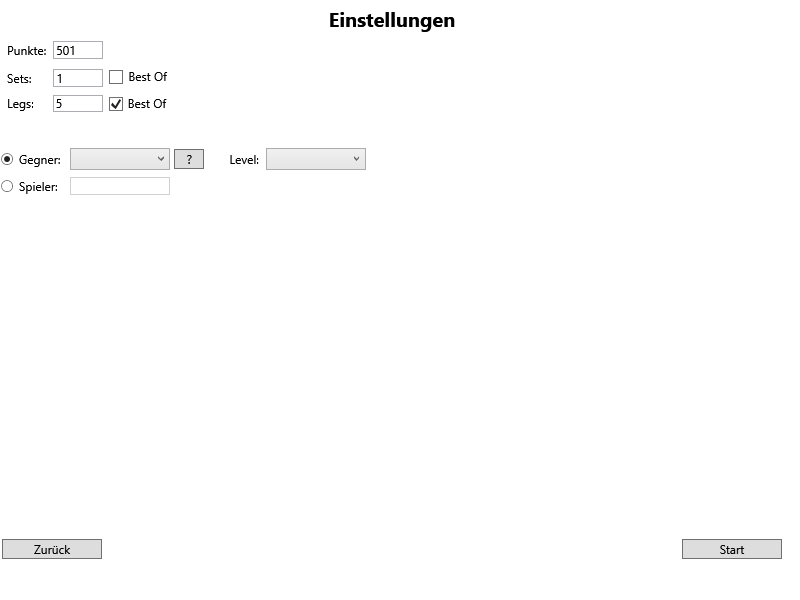
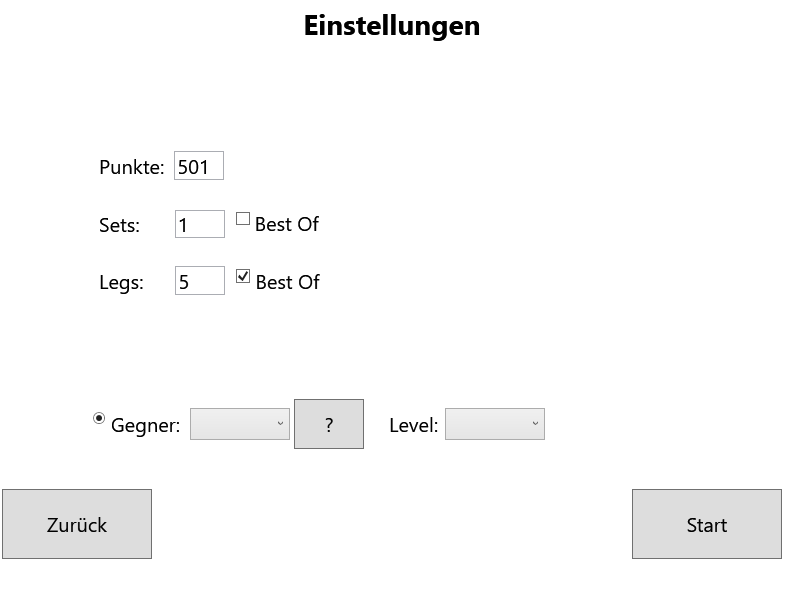
resized controls and fonts of gui

diff --git a/DartTraining/DartTraining/Match/MatchConfigUserControl.xaml b/DartTraining/DartTraining/Match/MatchConfigUserControl.xaml
@@ -5,37 +5,37 @@
              xmlns:d="http://schemas.microsoft.com/expression/blend/2008"
              xmlns:local="clr-namespace:DartTraining.Match"
              mc:Ignorable="d"
-             d:DesignHeight = "300" d:DesignWidth="400">
+             d:DesignHeight="768" d:DesignWidth="1024">
 	<Grid>
-		<StackPanel Margin="0,0,0,30">
-			<Label Name="lTitle" HorizontalAlignment="Center" VerticalAlignment="Top" Content="Einstellungen" FontSize="20" FontWeight="Bold" />
-			<StackPanel Orientation="Horizontal">
-				<Label Name="lPunkte" HorizontalAlignment="Left" VerticalAlignment="Center" Margin="2,0,0,0" Content="Punkte:" />
-				<TextBox Name="tbScores" HorizontalAlignment="Left" VerticalAlignment="Center" Margin="2,0,0,0" Width="50" Text="{Binding Path=Scores}" />
+		<StackPanel Margin="0,0,0,100" MaxWidth="600">
+			<Label Name="lTitle" HorizontalAlignment="Center" VerticalAlignment="Top" Content="Einstellungen" FontSize="28" FontWeight="Bold" />
+			<StackPanel Orientation="Horizontal" Margin="0,100,0,0">
+				<Label Name="lPunkte" HorizontalAlignment="Left" VerticalAlignment="Center" Margin="2,0,0,0" Content="Punkte:" FontSize="20" />
+				<TextBox Name="tbScores" HorizontalAlignment="Left" VerticalAlignment="Center" Margin="5,0,0,0" Width="50" Text="{Binding Path=Scores}" FontSize="20" />
 			</StackPanel>
-			<StackPanel Orientation="Horizontal">
-				<Label Name="lSets" HorizontalAlignment="Left" VerticalAlignment="Center" Margin="2,2,0,0" Content="Sets:" />
-				<TextBox Name="tbSets" HorizontalAlignment="Left" VerticalAlignment="Center" Margin="17,2,0,0" Width="50" Text="{Binding Path=Sets}" />
-				<CheckBox IsChecked="{Binding Path=IsSetBestOf}" Content="Best Of" VerticalAlignment="Center" Margin="5,1,0,0"></CheckBox>
+			<StackPanel Orientation="Horizontal" Margin="0,20,0,0">
+				<Label Name="lSets" HorizontalAlignment="Left" VerticalAlignment="Center" Margin="2,2,0,0" Content="Sets:" FontSize="20" />
+				<TextBox Name="tbSets" HorizontalAlignment="Left" VerticalAlignment="Center" Margin="30,2,0,0" Width="50" Text="{Binding Path=Sets}" FontSize="20" />
+				<CheckBox IsChecked="{Binding Path=IsSetBestOf}" Content="Best Of" VerticalAlignment="Center" Margin="10,1,0,0" FontSize="20"></CheckBox>
 			</StackPanel>
-			<StackPanel Orientation="Horizontal">
-				<Label Name="lLegs" HorizontalAlignment="Left" VerticalAlignment="Center" Margin="2,0,0,0" Content="Legs:" />
-				<TextBox Name="tbLegs" HorizontalAlignment="Left" VerticalAlignment="Center" Margin="14,0,0,0" Width="50" Text="{Binding Path=Legs}" />
-				<CheckBox IsChecked="{Binding Path=IsLegBestOf}" Content="Best Of" VerticalAlignment="Center" Margin="5,1,0,0"></CheckBox>
+			<StackPanel Orientation="Horizontal" Margin="0,20,0,0">
+				<Label Name="lLegs" HorizontalAlignment="Left" VerticalAlignment="Center" Margin="2,0,0,0" Content="Legs:" FontSize="20" />
+				<TextBox Name="tbLegs" HorizontalAlignment="Left" VerticalAlignment="Center" Margin="27,0,0,0" Width="50" Text="{Binding Path=Legs}" FontSize="20" />
+				<CheckBox IsChecked="{Binding Path=IsLegBestOf}" Content="Best Of" VerticalAlignment="Center" Margin="10,1,0,0" FontSize="20"></CheckBox>
 			</StackPanel>
-			<StackPanel Orientation="Horizontal" Margin="0,30,0,0">
-				<RadioButton VerticalAlignment="Center" GroupName="Opponent" Content="Gegner:" IsChecked="{Binding Path=IsCPU}"></RadioButton>
-				<ComboBox Name="cbOpponent" HorizontalAlignment="Left" VerticalAlignment="Top" Margin="10,2,0,2" Width="100" ItemsSource="{Binding Path=Opponents}" SelectedItem="{Binding Path=SelectedOpponent}" IsEnabled="{Binding Path=IsCPU}"  />
-				<Button Name="btnRandom" HorizontalAlignment="Left" VerticalAlignment="Center" Margin="4,0,0,0" Width="30" Command="{Binding Path=RandomCommand}" Content="?" ToolTip="Zufälliger Gegner"/>
-				<Label Name="lStaerke" HorizontalAlignment="Left" VerticalAlignment="Center" Margin="20,0,0,0" Content="Level:" IsEnabled="{Binding Path=IsCPU}" />
-				<ComboBox Name="cbLevel" HorizontalAlignment="Left" VerticalAlignment="Center" Margin="2,0,0,0" Width="100" ItemsSource="{Binding Path=Levels}" SelectedItem="{Binding Path=SelectedLevel}" IsEnabled="{Binding Path=IsCPU}"  />
+			<StackPanel Orientation="Horizontal" Margin="0,100,0,0">
+				<RadioButton VerticalAlignment="Center" GroupName="Opponent" Content="Gegner:" IsChecked="{Binding Path=IsCPU}" FontSize="20" HorizontalAlignment="Center"></RadioButton>
+				<ComboBox Name="cbOpponent" VerticalAlignment="Center" Margin="10,2,0,2" Width="100" HorizontalContentAlignment="Center" ItemsSource="{Binding Path=Opponents}" SelectedItem="{Binding Path=SelectedOpponent}" IsEnabled="{Binding Path=IsCPU}" FontSize="20"  />
+				<Button Name="btnRandom" HorizontalAlignment="Center" VerticalAlignment="Center" Margin="4,0,0,0" Height="50" Width="70" Command="{Binding Path=RandomCommand}" Content="?" ToolTip="Zufälliger Gegner" FontSize="20"/>
+				<Label Name="lStaerke" HorizontalAlignment="Center" VerticalAlignment="Center" Margin="20,0,0,0" Content="Level:" IsEnabled="{Binding Path=IsCPU}" FontSize="20" />
+				<ComboBox Name="cbLevel" HorizontalAlignment="Center" VerticalAlignment="Center" Margin="2,0,0,0" Width="100" ItemsSource="{Binding Path=Levels}" SelectedItem="{Binding Path=SelectedLevel}" IsEnabled="{Binding Path=IsCPU}" FontSize="20" />
 			</StackPanel>
-			<StackPanel Orientation="Horizontal" Margin="0,5,0,0">
-				<RadioButton GroupName="Opponent" IsChecked="{Binding Path=IsPlayer}" VerticalAlignment="Center" Content="Spieler:"></RadioButton>
-				<TextBox Name="tbPlayer" HorizontalAlignment="Left" VerticalAlignment="Center" Margin="12,0,0,0" Width="100" Text="{Binding Path=Player}" IsEnabled="{Binding Path=IsPlayer}" />
+			<StackPanel Orientation="Horizontal" Margin="0,20,0,0">
+				<RadioButton GroupName="Opponent" IsChecked="{Binding Path=IsPlayer}" VerticalAlignment="Center" Content="Spieler:" FontSize="20"></RadioButton>
+				<TextBox Name="tbPlayer" HorizontalAlignment="Left" VerticalAlignment="Center" Margin="12,0,0,0" Width="100" Text="{Binding Path=Player}" IsEnabled="{Binding Path=IsPlayer}" FontSize="20" />
 			</StackPanel>
 		</StackPanel>
-		<Button Name="btnBack" HorizontalAlignment="Left" VerticalAlignment="Bottom" Margin="2,0,0,2" Width="100" Command="{Binding Path=BackCommand}" Content="Zurück" />
-		<Button Name="btnStart" HorizontalAlignment="Right" VerticalAlignment="Bottom" Margin="0,0,2,2" Width="100" Command="{Binding Path=StartCommand}" Content="Start" />
+		<Button Name="btnBack" HorizontalAlignment="Left" VerticalAlignment="Bottom" Margin="2,0,0,2" Height="70" Width="150" Command="{Binding Path=BackCommand}" Content="Zurück" FontSize="20"/>
+		<Button Name="btnStart" HorizontalAlignment="Right" VerticalAlignment="Bottom" Margin="0,0,2,2" Height="70" Width="150" Command="{Binding Path=StartCommand}" Content="Start" FontSize="20" />
 	</Grid>
 </UserControl>

diff --git a/DartTraining/DartTraining/Resources/Styles.xaml b/DartTraining/DartTraining/Resources/Styles.xaml
@@ -25,6 +25,15 @@
 
 	<Style TargetType="{x:Type Button}">
 		<Setter Property="Background" Value="{DynamicResource YellowBackground}"></Setter>
+		<Setter Property="Cursor" Value="Hand"></Setter>
+	</Style>
+	
+	<Style TargetType="{x:Type RadioButton}">
+		<Setter Property="Cursor" Value="Hand"></Setter>
+	</Style>
+
+	<Style TargetType="{x:Type CheckBox}">
+		<Setter Property="Cursor" Value="Hand"></Setter>
 	</Style>
 
 	<LinearGradientBrush x:Key="DefaultBackground">
